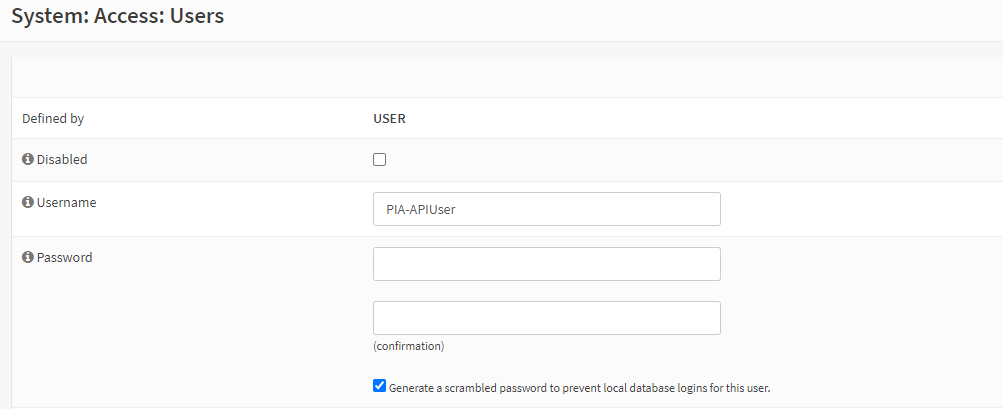
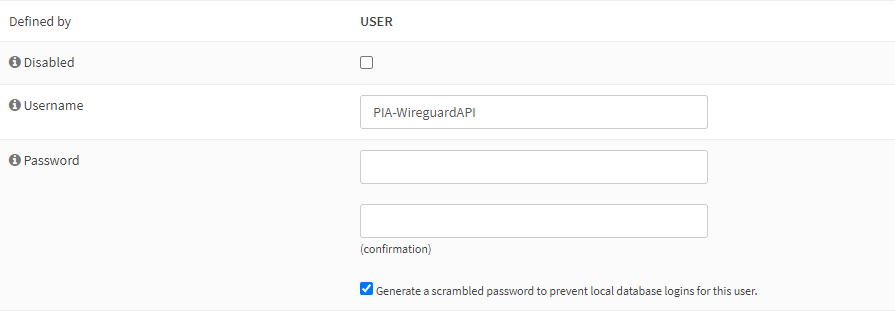
push

diff --git a/OPNSense.md b/OPNSense.md
@@ -26,7 +26,15 @@ Navigate to `System -> Settings -> Administration`:
     1. Go to System -> Access -> Users
     ![alt text](/Images/PIA-Portforwarding/system%20-%20pia%20api%20user.png)
     2. Click the orange plus in the top. 
-    3. Enter a username, I chose `PIA-APIUser`
+    3. Enter a username, I chose `PIA-WireguardAPI`
     4. Check the box that says `Generate a scrambled password to prevent local database logins for this user.` 
     5. Click Save
     ![alt text](/Images/PIA-Portforwarding/user%20config.png)
+2. Once you click save you can begin adding permissions to the user. 
+    1. Scroll up to the `effective Privileges` section and add the following: 
+    - `Firewall: Alias: Edit` 
+    - `Firewall: Aliases` (can be found by searching for "Alias")
+    - `System: Static Routes`
+    - `VPN: WireGuard` 
+    - Select the `+` icon to create an API key, save this for a later step. 
+    ![alt text](/Images/PIA-Portforwarding/user%20permissions%20and%20api%20key.png)
